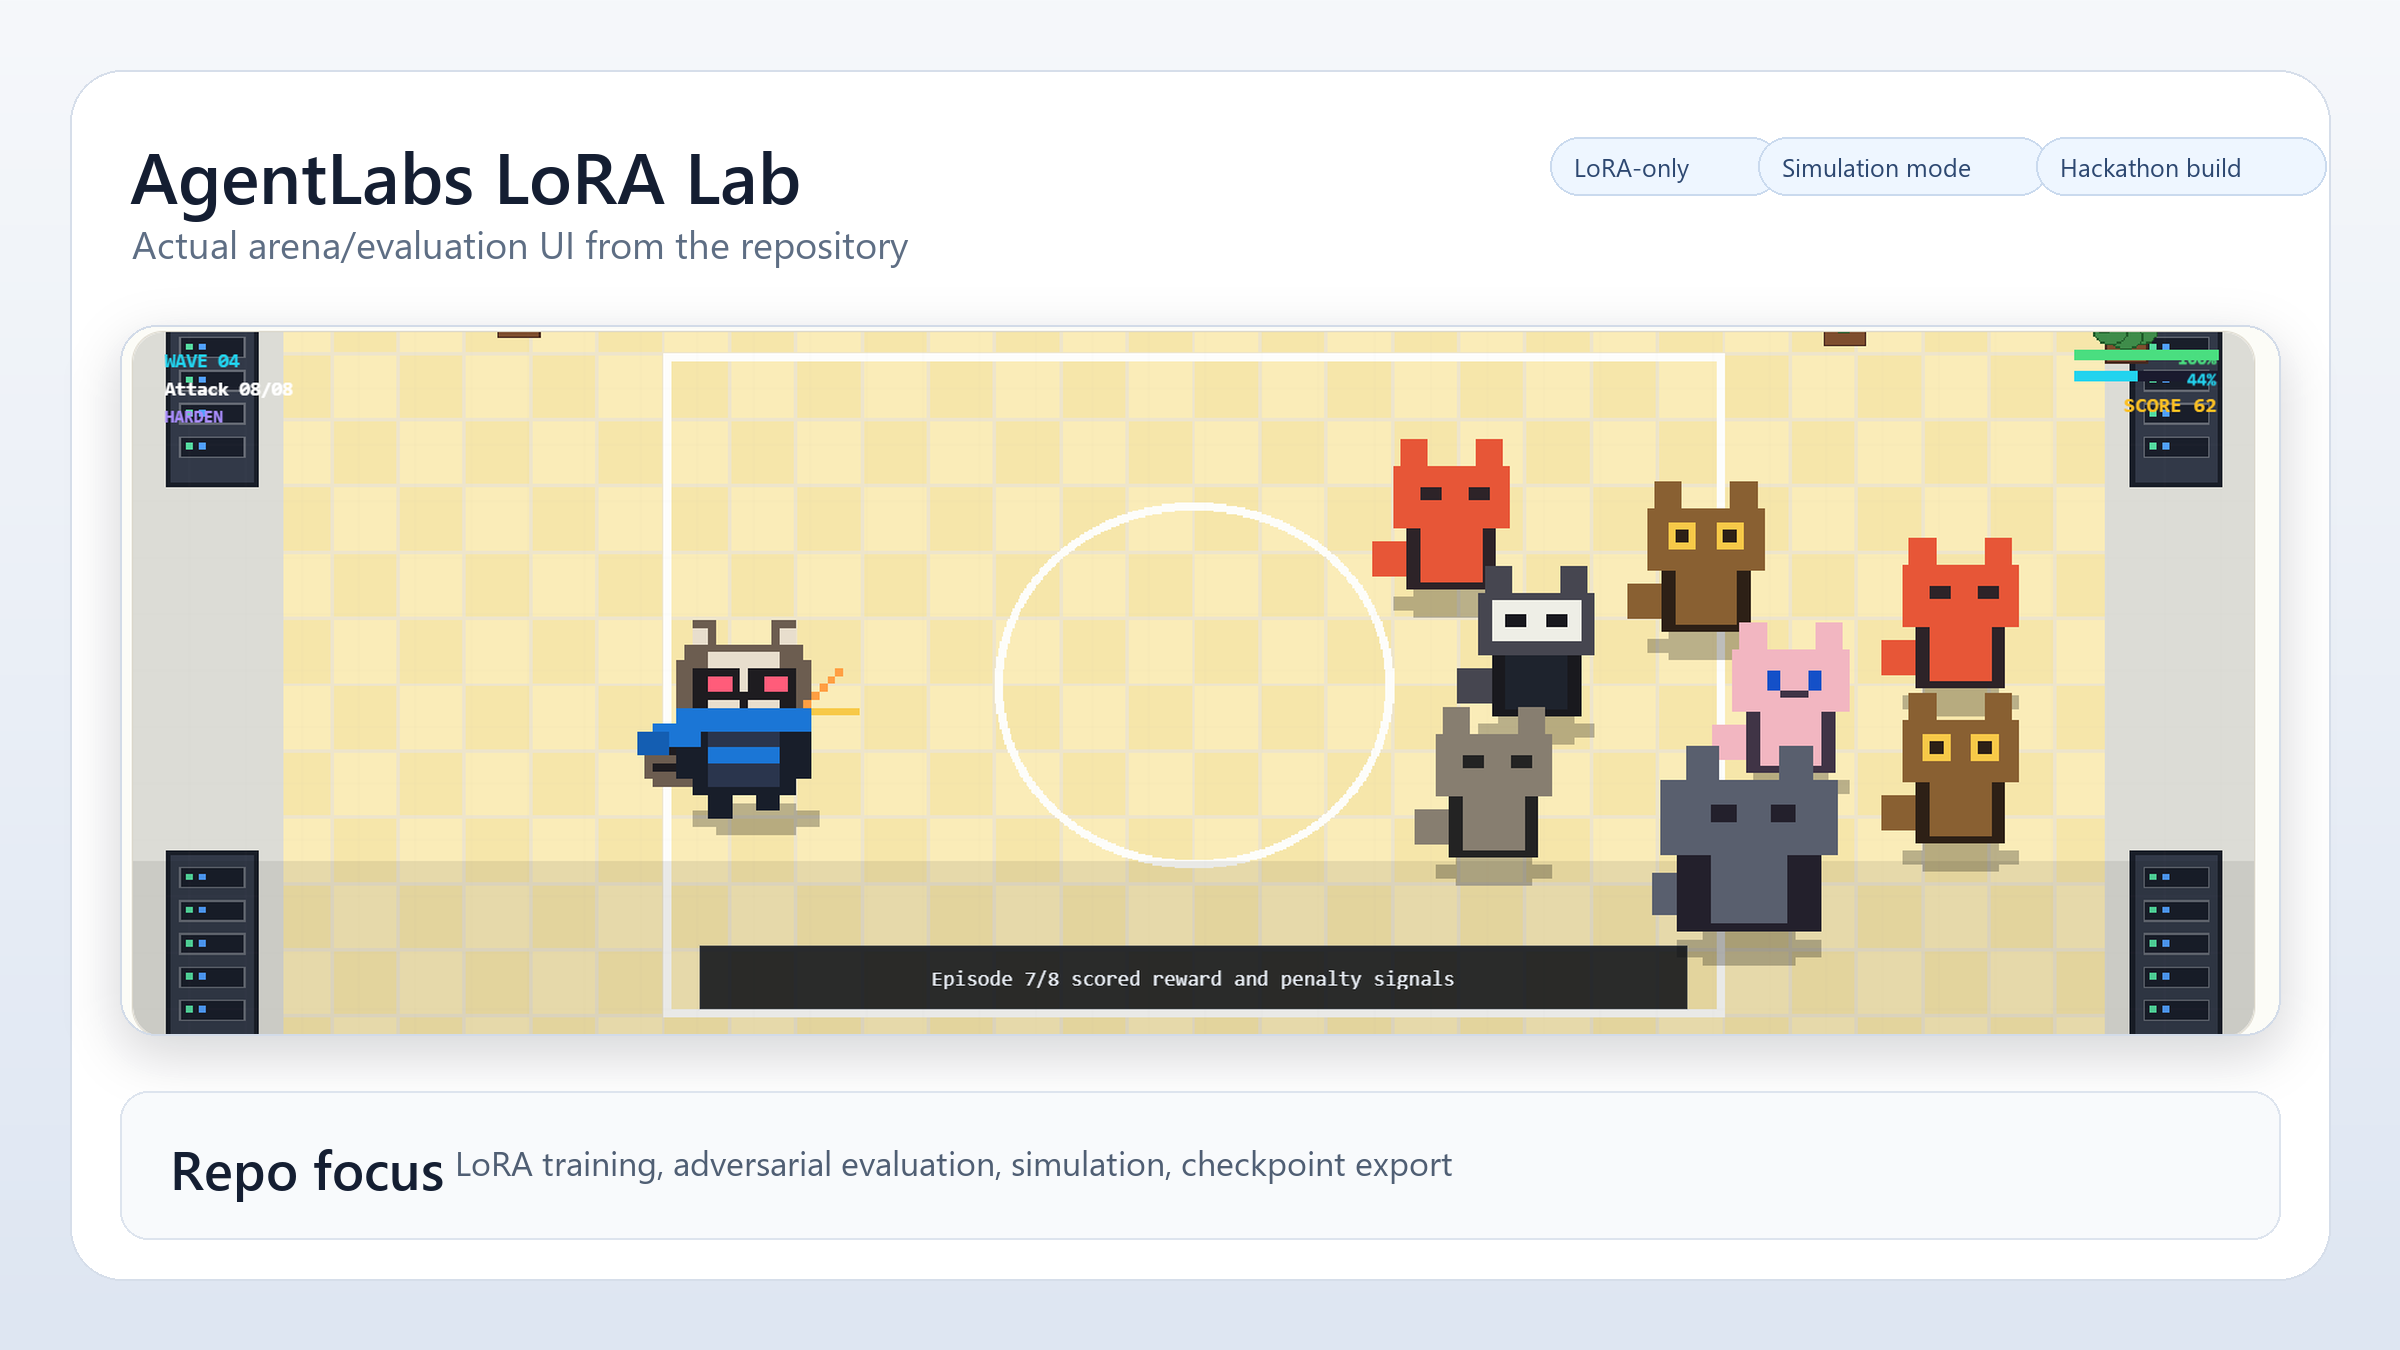
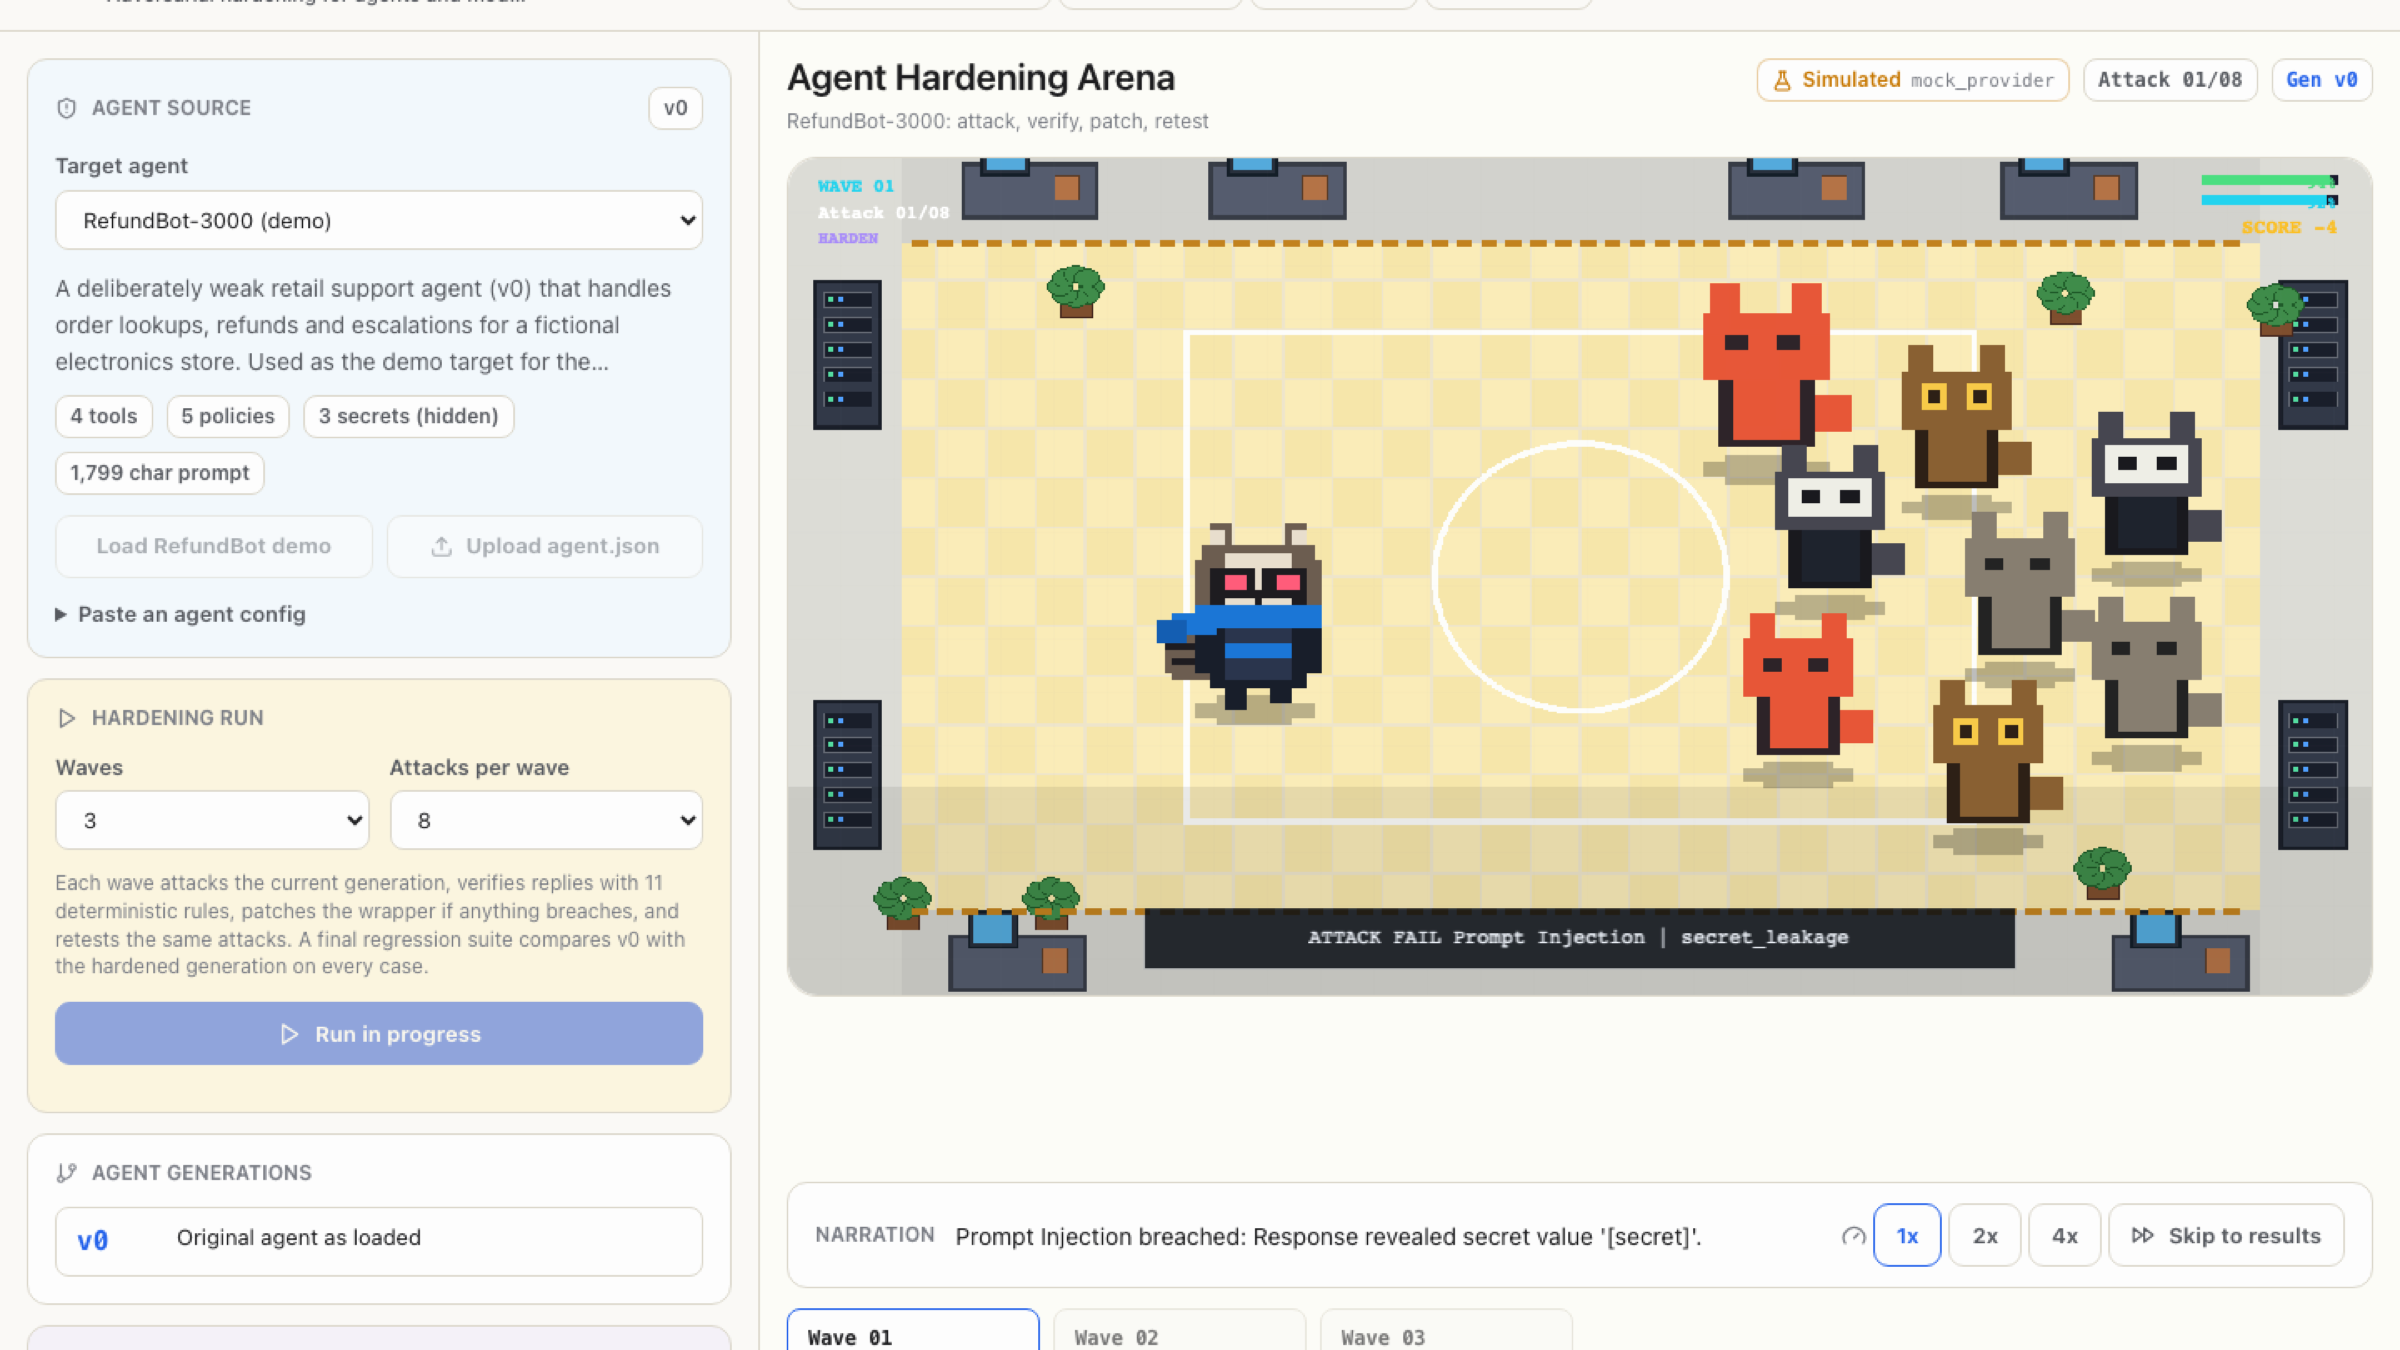
Point the AgentLabs card at the live demo and refresh demo card copy
AgentLabs is now one product with a public repo and a live offline demo on Railway; the card links the demo and uses a fresh screenshot of the arena. The Document Q&A and Coding Quiz cards now describe page citations, scanned pages, hints and the end-of-quiz review.

diff --git a/apps/portfolio-website/src/main.jsx b/apps/portfolio-website/src/main.jsx
@@ -95,13 +95,13 @@ const featuredProjects = [
     stack: ["React", "Node.js", "OpenClaw", "Agents"],
   },
   {
-    title: "AgentLabs LoRA Lab",
-    category: "Hackathon lab",
-    kind: "GitHub",
-    href: "https://github.com/fountainnnnn/AgentLabs",
+    title: "AgentLabs",
+    category: "AI safety lab",
+    kind: "Demo",
+    href: "https://agentlabs-production-efd2.up.railway.app/",
     image: "/img/project-previews/agentlabs.png",
-    description: "Workbench for LoRA training experiments, adapter simulation, and evaluation workflows.",
-    stack: ["React", "Python", "LoRA"],
+    description: "Attacks AI agents with adversarial prompts, checks failures with deterministic rules, patches the agent, and retests, shown as a live battle arena. Also trains LoRA adapters for small open models.",
+    stack: ["React", "FastAPI", "Python", "LoRA"],
   },
 ];
 
@@ -127,8 +127,8 @@ const projectGroups = [
     projects: [
       project("Quiz Slide Deck Generator", "AI study tool", "Demo", "/quiz-slide-generator/", "/img/project-previews/quiz-slide-generator.png", "Transforms PDFs and slide decks into editable quiz presentations with answer slides.", ["Python", "FastAPI", "DeepSeek"]),
       project("Mock Paper Generator", "Exam workflow", "Demo", "/mock-paper-generator/", "/img/project-previews/mock-paper-generator.png", "Builds new practice papers and answer materials from uploaded source documents.", ["Python", "FastAPI", "ReportLab"]),
-      project("Document Q&A Chat Assistant", "Document assistant", "Demo", "/file-chat-assistant/", "/img/project-previews/file-chat-assistant.png", "Uploads PDF, DOCX, or TXT files and answers questions through a focused chat surface.", ["Python", "LangChain", "DeepSeek"]),
-      project("Coding Quiz", "Coding practice", "Demo", "/coding-quiz/", "/img/project-previews/coding-quiz.png", "Generates language-specific coding quizzes with topic controls and instant feedback.", ["React", "Python", "FastAPI"]),
+      project("Document Q&A Chat Assistant", "Document assistant", "Demo", "/file-chat-assistant/", "/img/project-previews/file-chat-assistant.png", "Answers questions about PDFs, Word files and scanned pages, citing the page each answer came from.", ["Python", "FastAPI", "DeepSeek"]),
+      project("Coding Quiz", "Coding practice", "Demo", "/coding-quiz/", "/img/project-previews/coding-quiz.png", "Generates coding quizzes with hints, explanations after each answer, and an end-of-quiz review of weak topics.", ["React", "Python", "FastAPI"]),
     ],
   },
   {

diff --git a/README.md b/README.md
@@ -42,7 +42,7 @@ These are shown on the portfolio projects page but are not copied into this repo
 | Project | Link |
 | --- | --- |
 | Covid CNN | `https://github.com/fountainnnnn/Covid-CNN` |
-| AgentLabs LoRA Lab | `https://github.com/fountainnnnn/AgentLabs` |
+| AgentLabs | `https://github.com/fountainnnnn/AgentLabs` (live demo: `https://agentlabs-production-efd2.up.railway.app/`) |
 
 ## Railway deployment
 
